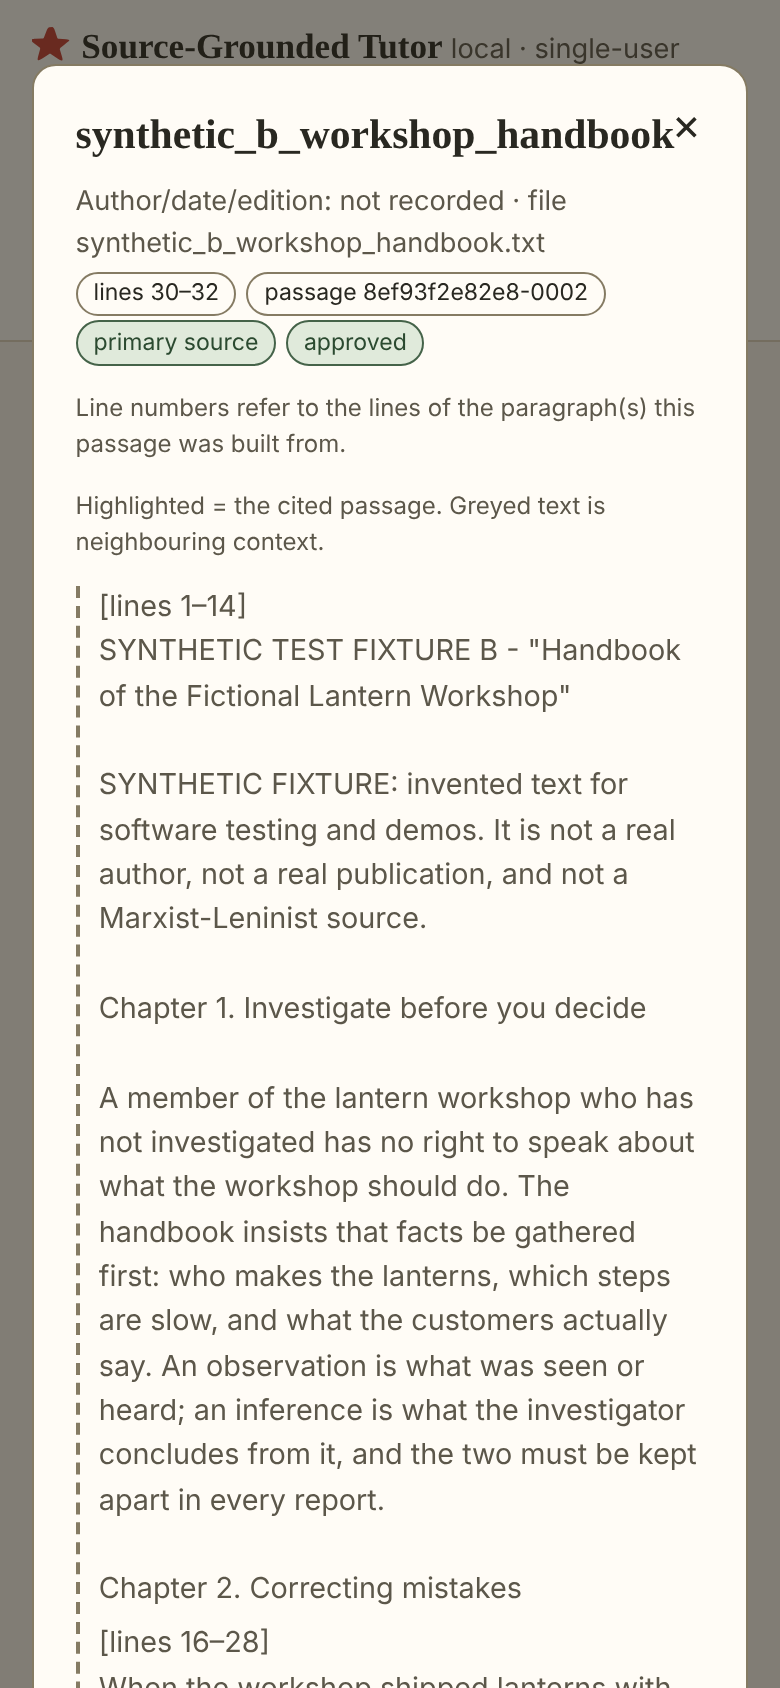
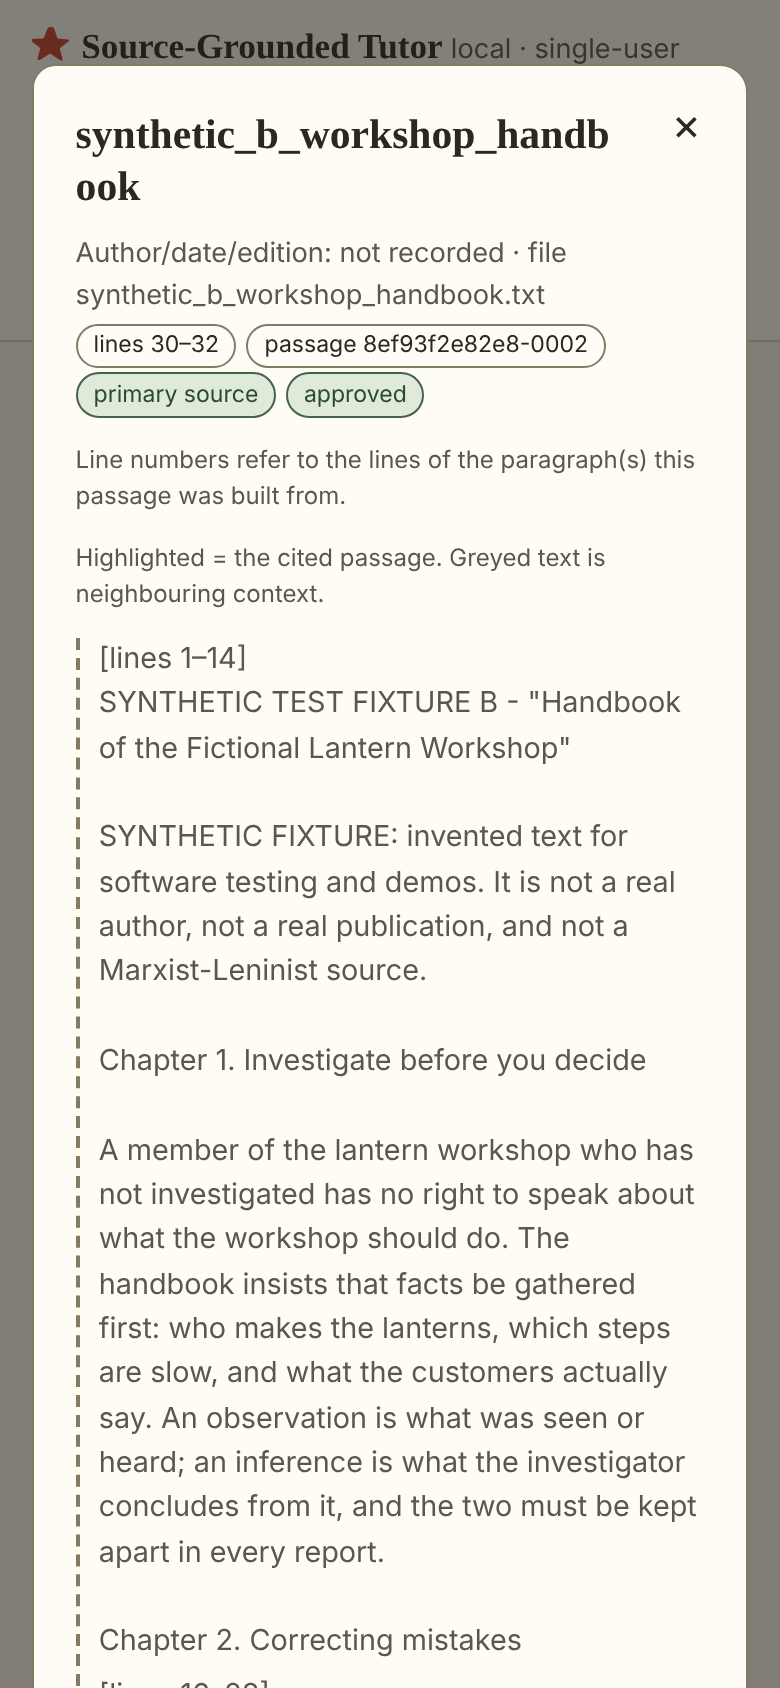
Fix stray 'null' in scope preview, modal focus/Escape/semantics, long-text wrapping; dark screenshots; docs
Claude-Session: https://claude.ai/code/session_01NKNx3FHyydo9MQarXkhfPh

Changed region(s): [[0.0923, 0.0924, 0.8923, 1.0], [0.7692, 0.0616, 0.8615, 0.0924], [0.8, 0.9858, 0.8615, 1.0]]

diff --git a/app/static/app.js b/app/static/app.js
@@ -81,11 +81,38 @@ $('#nav').addEventListener('click', e => { const b = e.target.closest('button');
 
 /* ------------------------------------------------------------------ modal */
 const modal = $('#modal');
-function openModal(...nodes) { const b = $('#modal-body'); b.replaceChildren(...nodes); modal.hidden = false; }
-function closeModal() { modal.hidden = true; }
+// replaceChildren() stringifies null/undefined/false; drop them first.
+function put(el, ...nodes) { el.replaceChildren(...nodes.filter(n => n !== null && n !== undefined && n !== false)); }
+const FOCUSABLE = 'a[href],button:not([disabled]),input:not([disabled]),select:not([disabled]),textarea:not([disabled]),summary,[tabindex]:not([tabindex="-1"])';
+let modalReturnFocus = null;
+function openModal(...nodes) {
+  const b = $('#modal-body'); put(b, ...nodes);
+  modalReturnFocus = document.activeElement;
+  const dlg = modal.querySelector('[role=dialog]');
+  const title = b.querySelector('h2');
+  if (title) { title.id = 'modal-title'; dlg.setAttribute('aria-labelledby', 'modal-title'); dlg.removeAttribute('aria-label'); }
+  else { dlg.removeAttribute('aria-labelledby'); dlg.setAttribute('aria-label', 'Passage view'); }
+  modal.hidden = false;
+  $('#modal-close').focus();
+}
+function closeModal() {
+  modal.hidden = true;
+  if (modalReturnFocus && document.contains(modalReturnFocus)) modalReturnFocus.focus();
+  modalReturnFocus = null;
+}
+document.addEventListener('keydown', e => {
+  if (modal.hidden) return;
+  if (e.key === 'Escape') { e.preventDefault(); closeModal(); return; }
+  if (e.key !== 'Tab') return;
+  const items = [...modal.querySelectorAll(FOCUSABLE)].filter(x => x.offsetParent !== null);
+  if (!items.length) return;
+  const first = items[0], last = items[items.length - 1];
+  if (!modal.contains(document.activeElement)) { e.preventDefault(); first.focus(); }
+  else if (e.shiftKey && document.activeElement === first) { e.preventDefault(); last.focus(); }
+  else if (!e.shiftKey && document.activeElement === last) { e.preventDefault(); first.focus(); }
+});
 $('#modal-close').addEventListener('click', closeModal);
 modal.addEventListener('click', e => { if (e.target === modal) closeModal(); });
-document.addEventListener('keydown', e => { if (e.key === 'Escape') closeModal(); });
 
 /* ------------------------------------------------------------------ helpers */
 const shortLoc = loc => (loc || '').includes(' > ') ? '§ ' + loc.split(' > ').pop() : (loc || '');
@@ -125,7 +152,7 @@ function renderScopeResolution(el, r) {
   const items = r.included.map(d => h('li', {}, `${d.title}${d.kind === 'secondary_notes' ? ' (secondary notes)' : ''} — ${d.reasons.join(' + ')}`));
   const out = r.excluded.map(d => h('li', { class: 'muted' }, `${d.title}: NOT included (${d.why_excluded})`));
   el.className = 'scope-preview notice small ' + (r.included.length ? 'ok' : 'warn');
-  el.replaceChildren(
+  put(el, 
     h('strong', {}, `Resolves to ${r.included.length} document(s)`),
     r.included.length ? h('ul', {}, items) : h('div', {}, 'No eligible documents: nothing can be retrieved with this selection. It will NOT fall back to all documents.'),
     out.length ? h('div', { class: 'small' }, 'Selected but not eligible:', h('ul', {}, out)) : null,
@@ -164,7 +191,7 @@ async function loadStatus() {
     + 'It does not measure tutoring quality or whether the passages support the claims. An API success alone does not count. ' + u.note;
   chip.className = 'chip ' + (s.live_configured ? 'live' : 'demo');
   $('#retrieval-note').textContent = `Retrieval: ${s.retrieval_mode}. ${s.retrieval_note}`;
-  $('#up-tags').replaceChildren(...tagBoxes([], 'uptag'));
+  put($('#up-tags'), ...tagBoxes([], 'uptag'));
 }
 
 /* ------------------------------------------------------------------ library */
@@ -181,8 +208,8 @@ function docMeta(d) {
 function renderDocs() {
   const list = $('#doc-list');
   $('#lib-count').textContent = `(${state.docs.length} documents, ${state.docs.filter(d => d.approved).length} approved)`;
-  if (!state.docs.length) { list.replaceChildren(h('div', { class: 'empty' }, h('span', { class: 'star', 'aria-hidden': 'true' }), h('p', { class: 'muted' }, 'No documents yet. Import a file, or load the synthetic demo documents.'))); return; }
-  list.replaceChildren(...state.docs.map(docCard));
+  if (!state.docs.length) { put(list, h('div', { class: 'empty' }, h('span', { class: 'star', 'aria-hidden': 'true' }), h('p', { class: 'muted' }, 'No documents yet. Import a file, or load the synthetic demo documents.'))); return; }
+  put(list, ...state.docs.map(docCard));
 }
 
 function docCard(d) {
@@ -291,8 +318,8 @@ async function openPassage(id) {
 
 /* ------------------------------------------------------------------ search */
 function renderSearchScope() {
-  $('#search-scope').replaceChildren(scopePicker({}));
-  if (!state.docs.length) loadDocs().then(() => $('#search-scope').replaceChildren(scopePicker({})));
+  put($('#search-scope'), scopePicker({}));
+  if (!state.docs.length) loadDocs().then(() => put($('#search-scope'), scopePicker({})));
 }
 $('#search-form').addEventListener('submit', guard(async e => {
   e.preventDefault();
@@ -303,7 +330,7 @@ $('#search-form').addEventListener('submit', guard(async e => {
   const out = $('#search-results');
   const head = h('p', { class: 'muted small' }, `${r.hits.length} passage(s) · evidence: ${r.strength} · ${r.distinct_docs} document(s) with relevant passages · terms: ${r.terms.join(', ') || '—'}`);
   const notes = r.notes.map(n => h('div', { class: 'notice warn' }, n));
-  out.replaceChildren(head, ...notes, ...r.hits.map(hit => h('div', { class: 'hit' },
+  put(out, head, ...notes, ...r.hits.map(hit => h('div', { class: 'hit' },
     h('div', { class: 'meta' }, `${hit.doc_title} · ${hit.location} · term coverage ${Math.round(hit.coverage * 100)}%`),
     h('div', { class: 'body' }, hit.text.length > 420 ? hit.text.slice(0, 420) + '…' : hit.text),
     h('div', { class: 'actions' }, h('button', { class: 'inspect-btn', onclick: guard(() => openPassage(hit.id)) }, 'Inspect passage')))));
@@ -314,11 +341,11 @@ async function loadConvs() {
   if (!state.docs.length) state.docs = await api('/api/documents');
   state.convs = await api('/api/conversations');
   const list = $('#conv-list');
-  list.replaceChildren(...state.convs.map(c => h('button', { class: 'conv' + (state.current && state.current.id === c.id ? ' active' : ''),
+  put(list, ...state.convs.map(c => h('button', { class: 'conv' + (state.current && state.current.id === c.id ? ' active' : ''),
     onclick: guard(() => openConversation(c.id)) },
     h('span', { class: 't' }, c.title),
     h('span', { class: 'tiny' }, `${c.mode} · ${c.provider === 'demo' ? 'demo' : 'live'} · ${c.message_count} msgs`))));
-  if (!state.convs.length) list.replaceChildren(h('div', { class: 'empty' }, h('span', { class: 'star', 'aria-hidden': 'true' }), h('p', { class: 'muted small' }, 'No saved sessions yet.')));
+  if (!state.convs.length) put(list, h('div', { class: 'empty' }, h('span', { class: 'star', 'aria-hidden': 'true' }), h('p', { class: 'muted small' }, 'No saved sessions yet.')));
 }
 
 async function openConversation(id) {
@@ -348,7 +375,7 @@ $('#new-chat-btn').addEventListener('click', () => {
   const panel = $('#new-panel');
   const title = h('input', { type: 'text', id: 'nc-title', placeholder: 'Session title (optional)' });
   const scope = scopePicker({}), prov = providerPicker();
-  panel.replaceChildren(h('h2', {}, 'New study chat'), h('label', {}, 'Title', title), h('h3', {}, 'Source scope'), scope,
+  put(panel, h('h2', {}, 'New study chat'), h('label', {}, 'Title', title), h('h3', {}, 'Source scope'), scope,
     h('h3', {}, 'Tutor'), prov,
     h('button', { class: 'primary', id: 'nc-start', onclick: guard(async () => {
       if (!confirmLive(prov.value())) return;
@@ -376,15 +403,15 @@ $('#new-exercise-btn').addEventListener('click', () => {
     const r = await api('/api/exercises', { json: { mode: mode.value, level: level.value, scenario_kind: kind.value,
       multi_source: multi.checked, focus: focus.value, historical_topic: topic.value, provider: prov.value(), acknowledge_live: prov.value() === 'live',
       scope: scope.value(), allow_single_source: allowSingle } });
-    if (r.status === 'blocked') { msg.replaceChildren(h('div', { class: 'notice bad' }, r.message)); return; }
+    if (r.status === 'blocked') { put(msg, h('div', { class: 'notice bad' }, r.message)); return; }
     if (r.status === 'needs_confirmation') {
-      msg.replaceChildren(h('div', { class: 'notice warn' }, r.message),
+      put(msg, h('div', { class: 'notice warn' }, r.message),
         h('button', { id: 'ex-single', onclick: guard(() => start(true)) }, 'Continue with a single-source exercise'));
       return;
     }
     state.current = r.conversation; $('#new-panel').hidden = true; renderConversation(); loadConvs();
   };
-  panel.replaceChildren(h('h2', {}, 'New exercise'),
+  put(panel, h('h2', {}, 'New exercise'),
     h('p', { class: 'small muted' }, 'The tutor asks one question at a time and waits for you. The rubric is an app-created learning aid, not a canonical standard; feedback is qualitative.'),
     h('div', { class: 'grid' }, h('label', {}, 'Mode', mode), h('label', {}, 'Level', level), h('label', {}, 'Scenario', kind),
       h('label', {}, 'Focus (optional)', focus), topicRow,
@@ -473,12 +500,12 @@ function renderConversation() {
     h('button', { onclick: guard(async () => {
       if (!confirm('Delete this saved session?')) return;
       await api(`/api/conversations/${c.id}`, { method: 'DELETE' }); state.current = null;
-      $('#conv-view').replaceChildren(h('p', { class: 'muted' }, 'Session deleted.')); loadConvs();
+      put($('#conv-view'), h('p', { class: 'muted' }, 'Session deleted.')); loadConvs();
     }) }, 'Delete'));
   const handoff = h('div', { class: 'tiny' }, 'Export is a manual handoff for NotebookLM or another notes tool — a one-time Markdown snapshot, not synchronization.');
   const summary = c.summary ? h('details', {}, h('summary', {}, 'Earlier turns condensed (app-generated)'), h('div', { class: 'ctx' }, c.summary), h('div', { class: 'tiny' }, c.summary_note)) : null;
   const thread = h('div', { class: 'thread', id: 'thread' }, ...c.messages.map(renderMessage));
-  view.replaceChildren(...[header, banner, scopeLine, scopeDetails, handoff, summary, thread,
+  put(view, ...[header, banner, scopeLine, scopeDetails, handoff, summary, thread,
     c.mode === 'exercise' ? exercisePanel(c) : chatComposer(c)].filter(Boolean));
   const last = thread.lastElementChild;
   if (last) last.scrollIntoView({ block: 'nearest' });

diff --git a/app/static/style.css b/app/static/style.css
@@ -50,6 +50,7 @@
 *{box-sizing:border-box}
 html{-webkit-text-size-adjust:100%}
 body{margin:0;background:var(--bg);color:var(--ink);font:16px/1.55 var(--font-body);overflow-x:hidden}
+h1,h2,h3,.card,.hit .meta,.badge,.tagchip,.small,.tiny,.loc{overflow-wrap:anywhere}
 h1,h2,h3{font-family:var(--font-head);font-weight:700;line-height:1.25}
 .star{display:inline-block;width:1.15em;height:1.15em;vertical-align:-.2em;background:var(--star);
   -webkit-mask:url(/static/star.svg) center/contain no-repeat;mask:url(/static/star.svg) center/contain no-repeat}
@@ -139,7 +140,7 @@ summary:hover{color:var(--ink)}
 .modal{position:fixed;inset:0;background:rgba(30,26,18,.55);display:flex;align-items:flex-start;justify-content:center;padding:2rem 1rem;overflow:auto;z-index:20}
 .modal[hidden]{display:none}
 .modal-box{background:var(--panel);border-radius:var(--r);max-width:760px;width:100%;padding:1.2rem 1.3rem;position:relative;border:1px solid var(--line-strong)}
-#modal-body > h2:first-child{padding-right:2rem}
+#modal-body > h2:first-child{padding-right:2.6rem}
 .close{position:absolute;right:.6rem;top:.4rem;font-size:1.4rem;border:none;background:none}
 .ctx{color:var(--muted);white-space:pre-wrap;font-size:.9rem;border-left:2px dashed var(--line-strong);padding-left:.6rem;margin:.3rem 0;max-width:var(--measure);overflow-wrap:anywhere}
 .target{white-space:pre-wrap;background:var(--blush);color:var(--blush-ink);padding:.6rem .8rem;border-radius:var(--r-sm);margin:.3rem 0;max-width:var(--measure);line-height:1.65;overflow-wrap:anywhere;border-left:4px solid var(--accent)}

diff --git a/app/static/index.html b/app/static/index.html
@@ -99,7 +99,7 @@
 </main>
 
 <div id="modal" class="modal" hidden>
-  <div class="modal-box" role="dialog" aria-modal="true">
+  <div class="modal-box" role="dialog" aria-modal="true" aria-label="Passage view">
     <button id="modal-close" class="close" aria-label="Close">×</button>
     <div id="modal-body"></div>
   </div>

diff --git a/tests/e2e/test_dialog_and_scope.py b/tests/e2e/test_dialog_and_scope.py
@@ -1,0 +1,95 @@
+"""Browser regressions: scope preview text, modal dialog keyboard behaviour. SYNTHETIC fixtures, demo provider."""
+import glob, os, socket, sys, threading, time
+from pathlib import Path
+import pytest
+
+ROOT = Path(__file__).resolve().parents[2]
+sys.path.insert(0, str(ROOT))
+pw = pytest.importorskip("playwright.sync_api")
+import uvicorn  # noqa: E402
+from app.config import Settings  # noqa: E402
+from app.main import create_app  # noqa: E402
+
+
+def _chromium():
+    env = os.environ.get("CHROMIUM_PATH")
+    if env and Path(env).exists():
+        return env
+    found = sorted(glob.glob("/opt/pw-browsers/chromium-*/chrome-linux64/chrome"))
+    return found[-1] if found else None
+
+
+@pytest.fixture(scope="module")
+def server(tmp_path_factory):
+    app = create_app(Settings(data_dir=tmp_path_factory.mktemp("d")))
+    s = socket.socket(); s.bind(("127.0.0.1", 0)); port = s.getsockname()[1]; s.close()
+    srv = uvicorn.Server(uvicorn.Config(app, host="127.0.0.1", port=port, log_level="warning"))
+    t = threading.Thread(target=srv.run, daemon=True); t.start()
+    while not srv.started:
+        time.sleep(0.05)
+    yield f"http://127.0.0.1:{port}"
+    srv.should_exit = True; t.join(timeout=5)
+
+
+@pytest.fixture(scope="module")
+def page(server):
+    with pw.sync_playwright() as p:
+        try:
+            b = p.chromium.launch(executable_path=_chromium(), args=["--no-sandbox"])
+        except Exception as exc:  # noqa: BLE001
+            pytest.skip(f"Chromium not available: {exc}")
+        pg = b.new_context(viewport={"width": 1100, "height": 900}).new_page()
+        yield pg
+        b.close()
+
+
+def _no_junk(text):
+    assert "null" not in text and "undefined" not in text, text
+
+
+def test_scope_preview_has_no_null_text_eligible_and_empty(page, server):
+    page.goto(server); page.wait_for_selector("#doc-list")
+    # empty library -> "No eligible documents" branch
+    page.click("#nav button[data-view=sessions]"); page.click("#new-chat-btn")
+    page.wait_for_function("document.querySelector('#new-panel .scope-preview').textContent.includes('Resolves to 0')")
+    _no_junk(page.inner_text("#new-panel .scope-preview"))
+    # eligible: load + approve fixtures
+    page.click("#nav button[data-view=library]")
+    page.click("#fixtures-btn"); page.wait_for_selector(".doc-card")
+    while page.locator(".approve-btn:has-text('Approve for use'):not([disabled])").count():
+        page.locator(".approve-btn:has-text('Approve for use'):not([disabled])").first.click(); page.wait_for_timeout(200)
+    page.click("#nav button[data-view=sessions]"); page.click("#new-chat-btn")
+    page.wait_for_function("document.querySelector('#new-panel .scope-preview').textContent.includes('Resolves to 4')")
+    _no_junk(page.inner_text("#new-panel .scope-preview"))
+    # a selection with an ineligible doc exercises the 'not eligible' list too
+    page.check("#new-panel label:has-text('synthetic_secondary_notes') input") if page.locator("#new-panel label:has-text('synthetic_secondary_notes') input").count() else None
+    page.wait_for_timeout(300)
+    _no_junk(page.inner_text("#new-panel .scope-preview"))
+
+
+def test_modal_focus_trap_escape_restore_and_name(page, server):
+    page.goto(server); page.wait_for_selector(".doc-card")
+    page.click("#nav button[data-view=search]")
+    page.fill("#search-q", "main constraint conditions facts change"); page.click("#search-btn")
+    page.wait_for_selector(".hit .inspect-btn")
+    trigger = page.locator(".inspect-btn").first
+    trigger.focus(); trigger.press("Enter")
+    page.wait_for_selector("#modal .target")
+    dlg = page.locator("#modal [role=dialog]")
+    assert dlg.get_attribute("aria-modal") == "true"
+    name_id = dlg.get_attribute("aria-labelledby")
+    assert name_id and page.locator(f"#{name_id}").inner_text().strip()
+    assert page.evaluate("document.querySelector('#modal').contains(document.activeElement)")
+    for _ in range(40):  # focus never escapes the dialog
+        page.keyboard.press("Tab")
+        assert page.evaluate("document.querySelector('#modal').contains(document.activeElement)")
+    for _ in range(40):
+        page.keyboard.press("Shift+Tab")
+        assert page.evaluate("document.querySelector('#modal').contains(document.activeElement)")
+    # close button not overlapping the title
+    cb = page.locator("#modal-close").bounding_box()
+    title_right = page.evaluate(f"(() => {{const e=document.getElementById('{name_id}');const r=document.createRange();r.selectNodeContents(e);return r.getBoundingClientRect().right}})()")
+    assert title_right <= cb["x"] + 1, (title_right, cb)
+    page.keyboard.press("Escape")
+    assert page.locator("#modal").is_hidden()
+    assert page.evaluate("document.activeElement.classList.contains('inspect-btn')")

diff --git a/scripts/make_screenshots.py b/scripts/make_screenshots.py
@@ -64,6 +64,32 @@ with sync_playwright() as p:
         # keyboard focus visible
         pg.keyboard.press("Tab"); pg.screenshot(path=str(OUT / f"focus-{tag}.png"), clip={"x": 0, "y": 0, "width": w, "height": 160})
         ctx.close()
+    # --- dark mode (desktop + narrow) and long-title stress, same running app
+    LONG = "A Very Long Synthetic Document Title That Keeps Going Well Past One Line To Test Wrapping Behaviour " + "x" * 60
+    for tag, w, h in (("desktop", 1280, 900), ("narrow", 390, 844)):
+        ctx = b.new_context(viewport={"width": w, "height": h}, device_scale_factor=2, color_scheme="dark", reduced_motion="reduce")
+        pg = ctx.new_page(); pg.on("dialog", lambda d: d.accept())
+        pg.goto(URL); pg.wait_for_selector(".doc-card")
+        if tag == "narrow":
+            lt = Path(tempfile.mkdtemp()) / "synthetic_long_title.txt"
+            lt.write_text("SYNTHETIC FIXTURE (invented stress text, not a real source).\n\n" + ("A long invented sentence about the fictional lantern workshop that keeps going to test wrapping. " * 12) + "\n\n" + "unbrokenSyntheticTokenWithoutSpaces" * 8 + "\n")
+            pg.set_input_files("#file-input", str(lt))
+            pg.fill("#up-title", LONG); pg.click("#upload-btn"); pg.wait_for_timeout(800)
+        def dshot(name, full=True):
+            pg.wait_for_timeout(2500); pg.evaluate('window.scrollTo(0,0)')
+            assert not scrolls(pg), f"horizontal scroll: {name} dark {tag}"
+            pg.screenshot(path=str(OUT / f"{name}-dark-{tag}.png"), full_page=full)
+        dshot("2-library")
+        if tag == "narrow":
+            pg.locator(".doc-card", has_text="Very Long").locator(".view-btn").click(); pg.wait_for_selector("#modal .chunk")
+            dshot("5-long-title-passage-view", full=False); pg.click("#modal-close")
+        pg.click("#nav button[data-view=sessions]")
+        pg.locator("#conv-list .conv", has_text="Mill town").first.click(); pg.wait_for_selector(".msg.assistant")
+        pg.locator(".evidence summary").first.click()
+        dshot("1-conversation")
+        pg.locator(".cite-chip").first.click(); pg.wait_for_selector("#modal .target")
+        dshot("1b-passage-panel", full=False)
+        ctx.close()
     b.close()
 srv.should_exit = True
 print("ok", sorted(x.name for x in OUT.iterdir()))

diff --git a/docs/DESIGN.md b/docs/DESIGN.md
@@ -53,6 +53,14 @@ The suggested tomato #C53E32 is kept for the star only; the text/button tomato w
 
 All pairs meet their target. Focus ring: 3px solid `--focus` with a 2px offset, so it is drawn against the page/surface (rows above), not against a button fill.
 
+## What this pass is (and is not)
+A **visual reskin** plus small fixes. Delivered: tokens, star, typography, restyled existing screens, wrapping of long titles/tokens, a modal accessibility fix (below) and a scope-preview bug fix (a stray "null" line: native \`replaceChildren()\` stringifies nullish children; all calls now go through a \`put()\` helper that drops them).
+**Not delivered** (earlier workspace-redesign ideas; no structural change was made): a persistent source side panel, a simplified session-start flow, a searchable/filterable library, any new workflow. These remain open.
+
+Modal (passage/document view): focus moves into the dialog on open, Tab/Shift+Tab stay inside it, Escape closes, focus returns to the control that opened it, and it has \`role="dialog" aria-modal="true"\` with its heading as the accessible name. Covered by \`tests/e2e/test_dialog_and_scope.py\`.
+
 ## Verification
 - `python scripts/make_screenshots.py` drives the real app (demo provider, synthetic fixtures approved, temp data dir) at 1280px and 390px, deviceScaleFactor 2, and asserts no horizontal scroll. Output: `docs/design/screenshots/` (1-conversation, 1b-passage-panel, 2-library, 3-new-session, 4-session-history, focus-*).
+- Dark-mode shots (`*-dark-*`) and a long-title / long-unbroken-token stress case (`5-long-title-passage-view-dark-narrow.png`) were also captured and inspected; no horizontal scroll at either width in light or dark.
+- Contrast figures cover only the listed pairs; they do not establish full accessibility. No screen-reader testing was done.
 - Not verified: other browsers/OS (the heading font falls back by platform); real-document content; the owner's taste.
